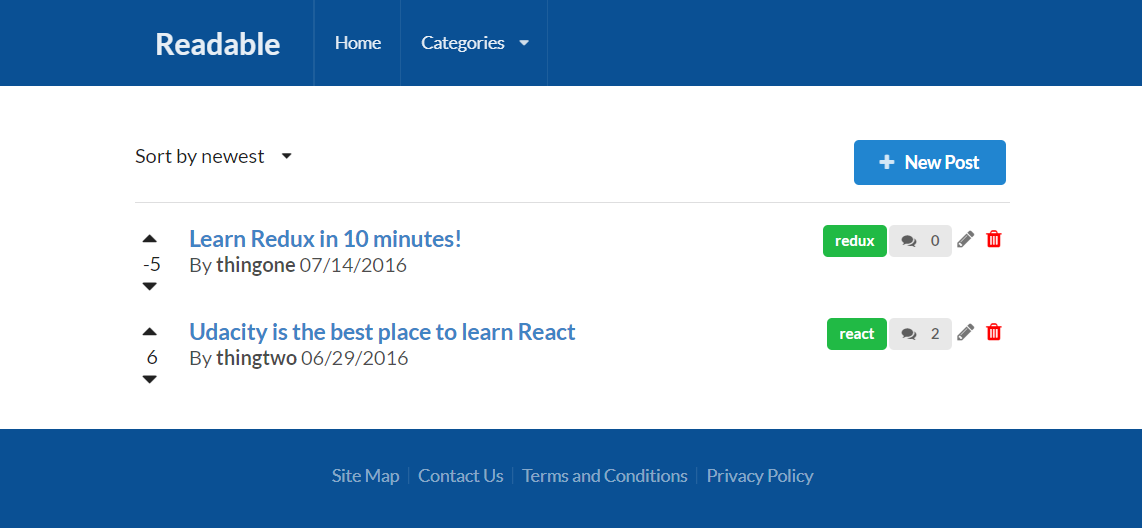
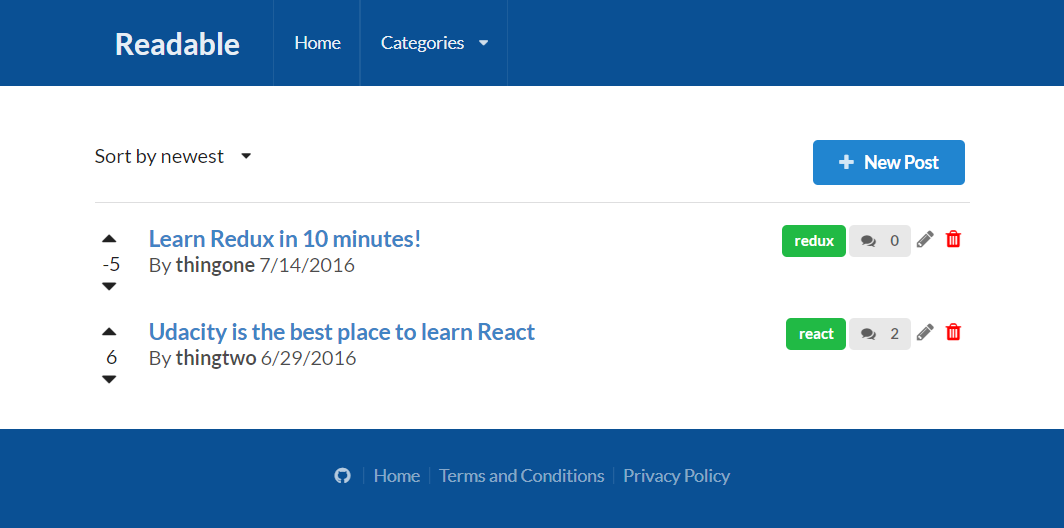
more screenshots & link to repo

diff --git a/src/components/Footer.js b/src/components/Footer.js
@@ -1,5 +1,5 @@
 import React from 'react';
-import { Container, List, Segment } from 'semantic-ui-react';
+import { Container, Icon, List, Segment } from 'semantic-ui-react';
 
 const Footer = () => (
   <Segment
@@ -8,8 +8,8 @@ const Footer = () => (
     style={{ margin: '2em 0em 0em', padding: '2em 0em', background: '#0a5094' }} >
     <Container textAlign='center'>
       <List horizontal inverted divided link>
-        <List.Item as='a' href='#'>Site Map</List.Item>
-        <List.Item as='a' href='#'>Contact Us</List.Item>
+        <List.Item as='a' href='https://github.com/iHani/readable-app'><Icon name='github'/></List.Item>
+        <List.Item as='a' href='/'>Home</List.Item>
         <List.Item as='a' href='#'>Terms and Conditions</List.Item>
         <List.Item as='a' href='#'>Privacy Policy</List.Item>
       </List>
